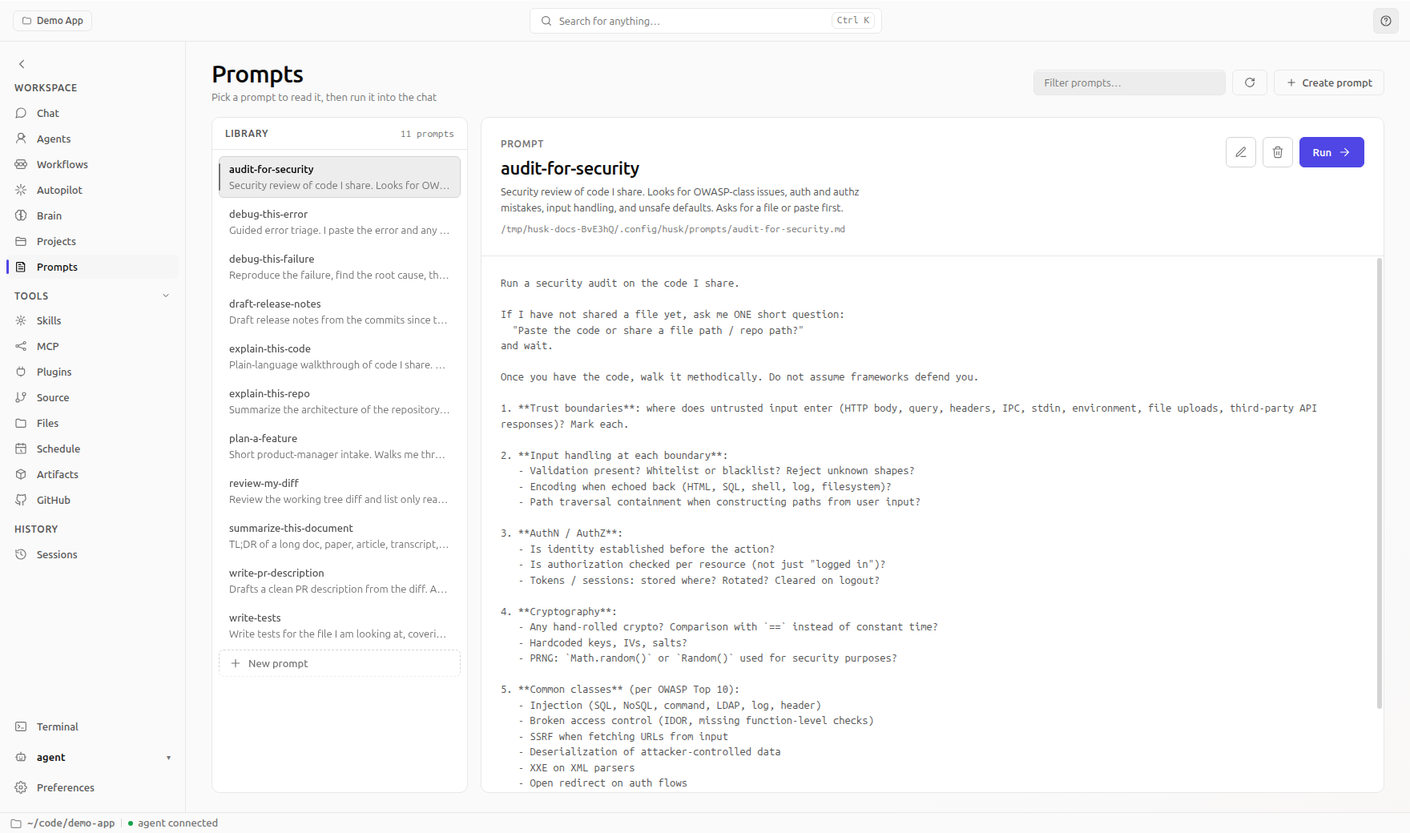
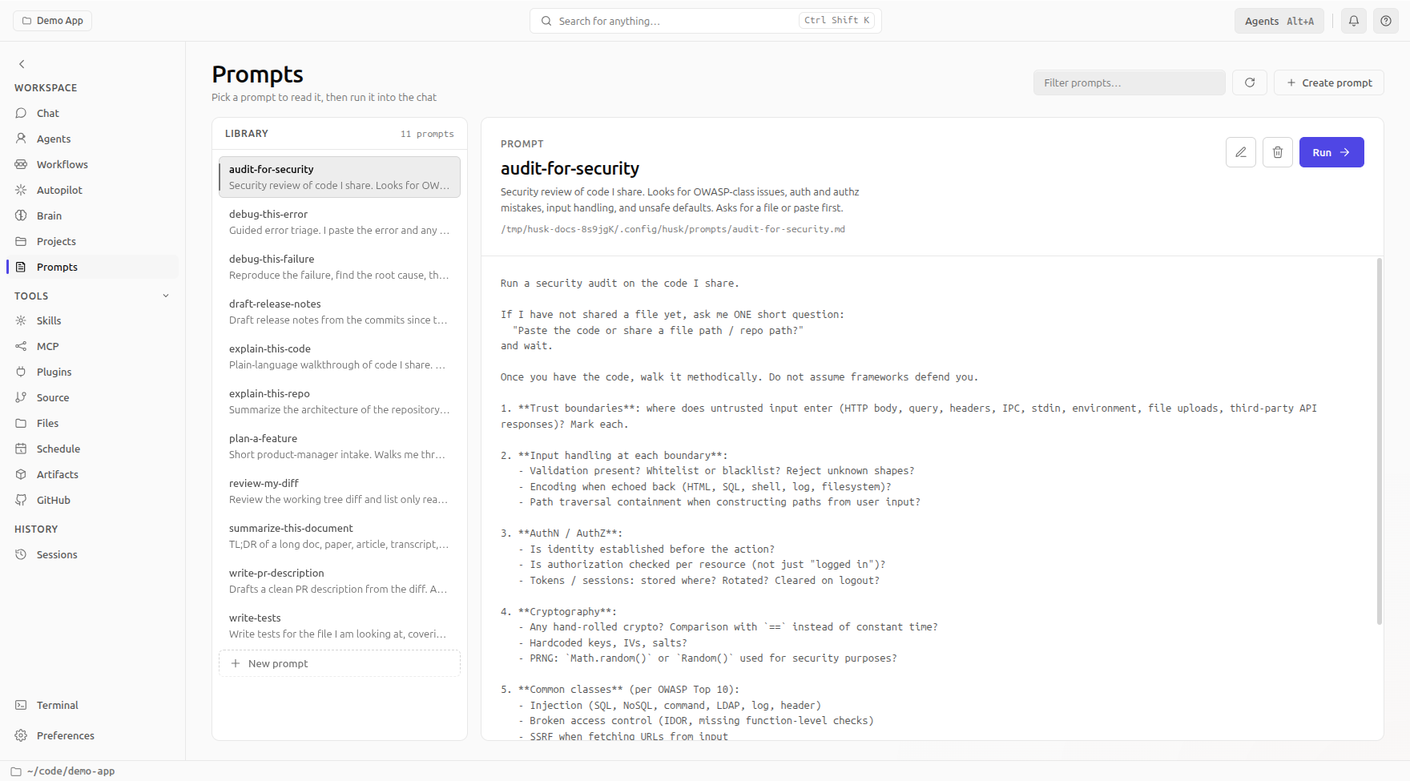
chore(docs): refresh the guides and screenshots for 2.15

diff --git a/docs/architecture.md b/docs/architecture.md
@@ -14,7 +14,7 @@ The pieces, all under `src/lib/` and unit-tested with a fake child process:
 
 | File | Role |
 |------|------|
-| `jsonrpc-stdio.js` | Line framer shared by both protocols |
+| `jsonrpc-stdio.js` | Line framer for stdio protocols |
 | `acp-client.js` | ACP request / notification / server-request handling |
 | `claude-stream.js` | claude argv and stdin line encoders |
 | `chat-transport.js` | Which protocol a CLI speaks (aider: none; Codex: app-server) |
@@ -26,7 +26,7 @@ The pieces, all under `src/lib/` and unit-tested with a fake child process:
 
 `main.js` wires the runtime to the `chat:*` IPC channels and gives each chat tab a shadow entry in the session table (cwd plus the pinned claude session id) so the status panel resolves the same readouts as a terminal tab. In the renderer, `chat-ui.js` paints the thread incrementally from the reducer state and `chat-md.js` renders markdown without ever using innerHTML on agent text. End-to-end coverage drives the real main-process path against `test/e2e/fixtures/fake-acp-agent.js`, a deterministic ACP agent reached through a PATH shim.
 
-The Chat page's Changes canvas (`src/renderer/chat-canvas.js`) reads working-tree status and file diffs through the existing Git IPC handlers. At the start and end of each chat turn, the renderer compares status snapshots and adds a receipt for paths that changed during that interval. The canvas also reads the current branch's open pull request and check summaries through the GitHub IPC handlers; Fix and Explain send prompts to the active chat. It does not stage or commit files. Those actions stay on the Source page. Diff and GitHub values are rendered as text, and external check or pull-request links go through Husk's confirmation-gated URL bridge.
+The Chat page's Changes canvas (`src/renderer/chat-canvas.js`) reads working-tree status and file diffs through the existing Git IPC handlers. At the start and end of each chat turn, the renderer compares status snapshots and adds a receipt for paths that changed during that interval. For non-Git folders, `folder-changes.js` captures bounded in-memory file snapshots before sending a prompt and when the turn ends. It reports additions, edits and deletions and supplies line diffs without creating a repository. This comparison covers the last turn and is replaced by the next turn or app restart. The canvas offers Initialize Git with a folder confirmation; it creates no commit or remote. The canvas also reads the current branch's open pull request and check summaries through the GitHub IPC handlers; Fix and Explain send prompts to the active chat. It does not stage or commit files. Those actions stay on the Source page. Diff and GitHub values are rendered as text, and external check or pull-request links go through Husk's confirmation-gated URL bridge.
 
 ## Repo layout
 
@@ -67,8 +67,8 @@ husk/
 │   ├── uninstall.sh           Removes the launcher, OS registration and data
 │   ├── husk-icon.png          Source for OS icons (1024x1024)
 │   ├── index.html             The dorshaer.github.io/Husk landing page
-│   ├── after-install.sh       deb / rpm post-install
-│   ├── after-remove.sh        deb / rpm post-remove
+│   ├── after-install.sh       Debian post-install
+│   ├── after-remove.sh        Debian post-remove
 │   └── prompts/               Curated default Husk prompts (seed -> ~/.config/husk/prompts/)
 ├── scripts/                   Installers served over the network, plus the dev launcher
 │   ├── install.sh             The Linux / macOS one-liner
@@ -111,7 +111,7 @@ husk/
 
 - **Main process (`src/main.js`).** Owns OS-facing concerns: spawns terminal sessions inside `node-pty`, runs native chat transports over child-process stdio, owns IPC handlers, and reads or writes user data under `~/.agents/`, `~/.claude/`, `~/.kiro/`, `~/.config/husk/`, and `~/.local/share/husk/`. Single source of truth for the agent process tree.
 - **Preload (`src/preload.js`).** A small bridge. Exposes `window.husk` via Electron's `contextBridge`. The renderer never gets `require`, `process`, or Node globals.
-- **Renderer (`src/renderer/`).** Single-page Electron view. xterm.js terminal mounts on the Chat page; the rail navigates between Chat, Agents, Workflows, Autopilot, Projects, Prompts, Skills, MCP, Plugins, Files, Sessions. Preferences open as a modal, not a page. CSS lives in `styles.css`; vendored xterm in `vendor/`.
+- **Renderer (`src/renderer/`).** Single-page Electron view. xterm.js terminal mounts on the Chat page; the rail navigates between Chat, Terminal, Agents, Workflows, Autopilot, Projects, Prompts, Skills, MCP, Plugins, Brain, Files, Source, GitHub, Schedule, Artifacts, Sessions. Preferences is its own page. CSS lives in `styles.css`; vendored xterm in `vendor/`.
 
 Electron security baseline: `contextIsolation: true`, `nodeIntegration: false`. CSP restricts the renderer to its own origin (no remote scripts). DevTools is off in packaged builds (`devTools: !app.isPackaged`). External URL clicks pass through a confirm dialog before `shell.openExternal`. Full posture in [`../SECURITY.md`](../SECURITY.md).
 
@@ -134,7 +134,7 @@ The full `window.husk.*` API exposed through `src/preload.js`:
 | Namespace | What |
 |-----------|------|
 | `pty` | start / write / resize / restart, plus onData / onExit subscriptions |
-| `chat` | Chat view: transportFor / start / prompt (text and images) / cancel / permission / setModel / stop / list (live tabs with replay logs) / history (a past session's log as chat events), plus onEvent / onExit |
+| `chat` | Chat view: transportFor / start / prompt (text and images) / cancel / permission / setModel / compact / stop / list (live tabs with replay logs) / history (a past session's log as chat events) / handoff / handoffTo (move a tab to another CLI), plus onEvent / onExit |
 | `git` / `github` | Repository status, file diffs, and pull request/check data used by Source, GitHub, and the Chat Changes canvas |
 | `terminal` | defaults for the Terminal page's shell tabs |
 | `feedback` | url / open: prefilled GitHub issues for bug reports and feature requests |
@@ -144,7 +144,10 @@ The full `window.husk.*` API exposed through `src/preload.js`:
 | `stats` | location, time, weather, tool counts, learning sparkline, usage |
 | `skills` | list (shared, disabled and legacy skills) / read / toggle / create |
 | `sessions` | list / read / findClaudeId / delete |
-| `prds` | enumerate `~/.claude/MEMORY/WORK/<slug>/PRD.md` |
+| `brain` | graph / addNote / addRule / rule / addFiles / addImage / pin / remove / setEnabled (the Brain page's memory store) |
+| `schedules` | list / save / remove / runNow (the Schedule page) |
+| `bgAgents` | list / peek / openCommand / control (background agent roster) |
+| `background` | choose / remove / setDisplay (the app background image) |
 | `plugins` | list / catalog / run / files / readFile / writeFile / openFolder |
 | `prompts` | list / create / delete (Husk-managed prompt store) |
 | `projects` | list / create / setActive / clearActive / delete |
@@ -155,14 +158,16 @@ The full `window.husk.*` API exposed through `src/preload.js`:
 | `profiles` | list / create / update / delete / activate / deactivate / deactivateAll, plus generate / listImportableAgents / importAgents |
 | `repoAgents` | pickDir / scan / install agent files found in a repo |
 | `repoMcp` | pickDir / scan / build / install MCP servers found in a repo |
-| `autopilot` | start / startCollab / status / revert / apply / discard / history and the run event stream |
+| `autopilot` | start / startCollab / status / revert / apply / discard / history / billingMode and the run event stream |
+| `models` | list an agent's available models; `openai:models` lists a BYOK OpenAI-compatible endpoint's models |
+| `registry` | list / add / remove / fetch (workflow registry sources) |
 | `claudeTrust` | per-folder trust status / accept for the claude CLI |
-| `mcp` | catalog / list / add / update / clone / remove / toggle / health, all dispatched through the active agent's adapter |
+| `mcp` | catalog / list / add / update / clone / remove / toggle / health, all dispatched through the active agent's adapter, plus per-project selection (`projectMcp:get` / `set` / `clear`) exposed as projectGet / projectSet / projectClear |
 | `dialog` / `dialog2` | pickFile / pickDir |
 | `voice` | status / install / speak / stop / uninstall, plus progress events |
 | `urls` | openExternal (confirm-dialog gated) |
 | `updates` | get / check / download / install / openRelease, plus status events |
-| `ui` | zoomIn / zoomOut / zoomReset / zoomGet |
+| `ui` | setRouteState / takeReloadState (and sync variants), the `ui:*` IPC handlers in `main.js` that carry route and reload state across renderer reloads; zoom (zoomIn / zoomOut / zoomReset / zoomSet / zoomGet) also lives here but runs renderer-side through `webFrame` (`src/lib/ui-zoom.js`), not a main-process handler |
 
 ### MCP adapter pattern
 
@@ -190,7 +195,7 @@ Session history comes from each CLI's own local logs. For example, Claude stores
 | `~/.config/husk/skills-disabled/` | Disabled shared skills, kept outside native skill discovery paths |
 | `~/.claude/projects/` | Claude Code project transcripts, read for session history |
 | `~/.copilot/session-state/` | Copilot CLI event logs, read for session history |
-| `~/.claude/MEMORY/CONTEXT/` | Files dragged onto Husk for the current chat |
+| `~/.config/husk/context/` | Files attached through the context tray |
 | `~/.claude.json` | claude's user config; Husk writes `mcpServers` here at mode 0600 |
 | `~/.copilot/mcp-config.json` | copilot's MCP config; Husk writes here at mode 0600 when the active agent is copilot |
 | `~/.gemini/settings.json` | gemini's user settings; Husk touches only `mcpServers` and the disabled sidecar, mode 0600, when the active agent is gemini |
@@ -207,7 +212,7 @@ Session history comes from each CLI's own local logs. For example, Claude stores
 
 Artifact names follow `husk-v${version}-${os}-${arch}.${ext}` (configured under `build.{linux,mac,win}.artifactName` in `package.json`), so a release directory looks like `husk-v<version>-linux-x86_64.AppImage`, `husk-v<version>-mac-arm64.dmg`, `husk-v<version>-win-x64.exe`, etc.
 
-`installer/` is shipped as `extraResources`, not inside the asar, so the main process can copy from `process.resourcesPath/installer/prompts/` into `~/.config/husk/prompts/` on first launch (`bootstrapHuskPromptsIfNeeded` in `src/main.js`).
+Curated prompts and platform icons from `installer/` are shipped as `extraResources`, not inside the asar, so the main process can copy from `process.resourcesPath/installer/prompts/` into `~/.config/husk/prompts/` on first launch (`bootstrapHuskPromptsIfNeeded` in `src/main.js`).
 
 The release workflow in `.github/workflows/release.yml` builds for all three OSes on `git tag v*` push, then:
 - generates a `SHA256SUMS` over the release directory,
@@ -221,3 +226,13 @@ The release workflow in `.github/workflows/release.yml` builds for all three OSe
 - `app.requestSingleInstanceLock()`: a second `husk` invocation focuses the existing window instead of starting another process tree.
 - `killPtyTree()`: on window close or quit, SIGTERMs the PTY's process group, then SIGKILLs after 250 ms grace. Wired to `window-all-closed`, `before-quit`, `will-quit`, `SIGINT`, `SIGTERM`, `SIGHUP`, `exit`.
 - `run.sh` reaps stale Electron processes whose `--app-path` matches the local source dir, so a hard kill from the prior run does not pile up inotify watchers.
+
+## Preferences, recovery and help
+
+The Preferences view groups startup and history under Workspace, visual choices under Appearance, speech under Voice & recaps, usage controls under Usage & limits, optional API endpoints under Connections, and version information and guidance under About & help. The default chat CLI supplies new-chat defaults; each discussion retains its own selected vendor and connection.
+
+`config-store.js` validates configuration, replaces files atomically and retains a recovery copy. Chat runtime replay and main-process view snapshots preserve active threads and drafts through renderer reloads; a requested agent restart waits until its reply finishes. Apply compares the current file with the run's original snapshot before replacing changed content.
+
+`help-content.js` holds bundled documentation, shortcuts and troubleshooting topics. `help-ui.js` renders those topics offline, with native-menu, toolbar and Preferences entry points. Bundle sharing remains disabled for this release.
+
+Git capabilities are probed separately from repository state. An unavailable executable keeps plain-folder comparisons enabled and offers installation and recheck actions in Changes and Source. Existing but unreadable repository metadata remains an error rather than being treated as a new folder. Git initialization checks the folder, existing directory/file and bare repository markers, and duplicate requests before running; unsupported initial-branch flags on older Git use a separate HEAD setup step.

diff --git a/README.md b/README.md
@@ -189,16 +189,16 @@ a cleanup path such as `~/.local/share/husk`, the uninstaller skips that path.
 ## Usage
 
 1. Launch Husk from your applications menu, or run `husk` from a terminal after installing.
-2. On first run, Husk asks for the agent's name (default: Husk) and the agent command (default: `claude`). Both are saved to `~/.config/husk/config.json` and can be edited later in Preferences.
+2. On first run, connect your CLIs and choose your workspace and appearance. Preferences > Workspace contains the default chat CLI and startup options. Voice & recaps contains the assistant name.
 3. Start chatting. Agents with a machine protocol (Claude over stream-json; Copilot, Gemini and Kiro over the Agent Client Protocol; Codex over its app-server) open as a **native chat**. Aider opens in the agent's own terminal, a real PTY where slash commands, stdin and ctrl-c all work. You can pin every agent to the terminal view in Preferences (Chat view).
    - **The thread.** Replies stream as markdown. A thought folds under `Thinking`. Each tool call is one line you can open into its input, output and diff (Formatted or Raw). A permission request becomes a card with the agent's own choices. A live row at the foot of the thread says when the agent is thinking or running a tool. When a turn changes files, open the Changes canvas to inspect the working-tree diff, pull request and checks beside the conversation.
-   - **Sessions.** The column beside the thread lists every past session, grouped by folder, project and day, with its live state. Click one to reopen it with its history. A cold start reopens your newest session (set `resumeLastOnLaunch: false` in config to start empty instead). Chat tabs survive a reload.
+   - **Sessions.** The column beside the thread lists every past session, grouped by folder, project and day, with its live state. Click one to reopen it with its history. A cold start reopens your newest session. Change this in Preferences > Workspace > Reopen the most recent conversation. Chat tabs survive a reload.
    - **The composer.** `/` lists every command the agent offers; scroll, or keep typing to narrow. `@` completes a file path. Up and Down recall earlier prompts. Alt+Backspace and Alt+Delete remove a word. Paste or drop an image and it goes with your next message.
    - **While it works.** Enter queues your next message and sends it when the agent is free. Up on an empty field takes the last queued message back, to edit or to delete. **Edit and resend** under a reply rewrites that prompt and replaces everything after it.
    - **Models.** The model chip in the composer, or `/model`, lists the models your CLI itself offers and switches in place, without restarting the session. Type any other id the CLI accepts.
-   - **Help.** The help button at the top right and the Help menu open a prefilled GitHub issue to report a bug or request a feature.
-4. Drag files onto the window to share them with the agent, or use **Attach** in the composer and **Add context** in the page head.
-5. Switch pages with the rail or `Alt+1..6`. Open the command palette with `Cmd/Ctrl+K`.
+   - **Help.** The help button and native Help menu open the bundled documentation, keyboard shortcuts and troubleshooting guide, even offline. They also link to the repository and prefilled bug reports or feature requests.
+4. Drag files onto the window to share them with the agent, or use **Attach** in the composer.
+5. Switch pages with the rail or `Alt+1..7`. Open the command palette with `Cmd/Ctrl+Shift+K`. Outside terminals, `Cmd/Ctrl+K` also works.
 6. If a chat starts agents that keep working on their own, the topbar says how many are running and how many are waiting on you. Click it or press `Alt+A` to pick one and continue its conversation.
 
 ### Pages
@@ -222,7 +222,7 @@ a cleanup path such as `~/.local/share/husk`, the uninstaller skips that path.
 - **GitHub**: the open pull requests and issues for the current project, with their checks, labels and review state, filtered as you type.
 - **Sessions**: resume any prior agent session from its JSONL log. Group the roster into folders you name. Agents a chat started are grouped under that chat rather than listed beside it.
 
-A command palette (`Cmd/Ctrl+K`) searches chats, projects, workflows, agents, prompts and skills from anywhere. Preferences is its own page (agent command, name, chat view, theme, accent, voice, recap, sidebar defaults, and an About entry that reports the version and checks for updates), opened from the rail.
+A command palette (`Cmd/Ctrl+Shift+K`, or `Cmd/Ctrl+K` outside terminals) searches chats, projects, workflows, agents, prompts and skills from anywhere. Preferences is its own page, opened from the rail, grouping settings into Workspace, Appearance, Voice & recaps, Usage & limits, Connections, and About & help (the About group reports the version and checks for updates).
 
 ## Architecture
 
@@ -313,7 +313,7 @@ A failing gate restores the working tree, so a bad run leaves nothing behind.
 ### Testing
 
 ```bash
-npm test         # node:test unit suite (500+ tests), well under a second
+npm test         # node:test unit suite
 npm run test:e2e # Playwright smoke that boots real Electron
 npm run test:all # both
 ```
@@ -329,17 +329,16 @@ CI runs both jobs on every push to `main`, `development`, and `dev/**`, and on e
 
 ## Configuration
 
-All settings live in `~/.config/husk/config.json` and are editable from the Preferences page:
+Preferences groups settings into Workspace, Appearance, Voice & recaps, Usage & limits, Connections, and About & help. Search finds individual settings. Most preferences are stored in `~/.config/husk/config.json`; supported API keys use the operating system keychain.
 
-- **Agent command** (`claude`, `copilot`, `codex`, `aider`, `gemini`, `kiro`, or any binary on `$PATH`) and **agent name**
+- **Default chat CLI** in Workspace chooses the starting CLI. The New chat menu still lets you choose a different installed CLI for each discussion. **Agent name** lives in Voice & recaps.
 - **Active agent profiles**: one or more agent personas applied to the next session
 - **Chat view** (`chatView`: `chat` or `terminal`): how a new chat opens, native chat or the agent's own terminal. Chat is the default for CLIs with a protocol
 - **Active project**: drives the agent's working directory so per-folder trust prompts work
-- **Theme and accent color**: the existing palettes plus Solarized Light and Dark, One Dark, Monokai, Everforest, Kanagawa, and high contrast light and dark. Pick a built-in accent or a custom color.
+- **Theme and accent color**: 21 themes, 5 of them light. The dark set is Dark, Midnight, Tokyo Night, Catppuccin, Rose Pine, Gruvbox, Nord, Dracula, Ember, Solarized Dark, One Dark, Monokai, Everforest, Kanagawa, Eclipse, and High contrast dark. The light set is Light, Sepia, Solarized Light, High contrast light, and Glass (clear glass plates, frosted and transparent panes with lit edges, on a cool silver field). Pick a built-in accent or a custom color.
 - **Background image**: open Preferences → Appearance and use the first card to choose a local PNG, JPEG or WebP. Husk checks its byte and pixel limits, re-encodes it in a sandboxed helper, and stores a private copy without the source path. The image appears behind the interface, with a preview and adjustable dim and blur.
 - **Usage**: a bell shows context, plan and daily budget readings when available. Warnings have configurable thresholds. An optional daily-budget confirmation asks before sending.
 - **Transcript retention**: keep local chat history for continuation between CLIs, with a default retention of 30 days.
-- **Sharing**: bundle import/export and an optional local scanner. Imported bundles, agent packs, workflow artifacts and pasted MCP sets require an installation review.
 - **Voice** (enable, voice model, speaking rate)
 - **Show recap line** (when off, suppresses end-of-response summaries)
 - **Reopen the last session on launch** (`resumeLastOnLaunch`, on by default)
@@ -358,4 +357,4 @@ Husk is source-available under the [Elastic License 2.0](LICENSE). You can use i
 The terminal embedding uses [`xterm.js`](https://github.com/xtermjs/xterm.js) plus [`node-pty`](https://github.com/microsoft/node-pty). On Linux the PTY is established through `script(1)` so `claude --resume` gets its controlling terminal. Voice is via [Piper TTS](https://github.com/rhasspy/piper). The workflow editor uses [Drawflow](https://github.com/jerosoler/Drawflow).
 
 
-More detail: [chat continuation, Brain rules and usage](docs/chat-continuation.md) and [local sharing](docs/local-sharing.md).
+More detail: [chat continuation, Brain rules and usage](docs/chat-continuation.md) and [installation and updates](docs/installation.md).

diff --git a/docs/multi-vendor-routing.md b/docs/multi-vendor-routing.md
@@ -12,12 +12,20 @@ Assign a vendor independently to:
 - **Planner**, which splits team work.
 - **Integrator**, which combines team results.
 
+When more than one supported CLI is detected, each job type offers its installed vendors and **Auto by Husk**. Detection is independent of the CLIs connected for new chats. With one installed vendor, Husk uses that vendor for unassigned job types.
+
+**Auto by Husk** chooses an installed CLI at the start of a job, preferring one with a usable model configured for the job's simple or complex tier. Ties use a stable vendor order: Claude, Codex, Gemini, Copilot, Kiro, Aider. If none has a tier model, the first installed vendor in that order uses its own default model. This does not compare subscription balances or infer whether a CLI is signed in. The chosen vendor and model appear in the job receipt and remain fixed after queueing.
+
+### Model defaults by vendor
+
+Expand **Model defaults by vendor** below the job choices to configure per-CLI models.
+
 ### Routed and Not routed
 
-Each installed CLI is in one of two states, shown at the top of the Models panel:
+Each installed CLI is in one of two states, shown in Model defaults by vendor:
 
 - **Routed**: you picked a model for simple jobs and a model for complex jobs. Simple jobs run on the first, complex jobs, planning and integration on the second.
-- **Not routed**: "This CLI uses its own default model for every task." No model controls are drawn for it; **Set up routing** opens the picker.
+- **Not routed**: "This CLI uses its own default model for every task." Every job still has a Model picker. Choose a model for that job, or keep **Use vendor default**. **Set up routing** inside Model defaults by vendor configures reusable defaults.
 
 Claude ships Routed with `haiku` for simple jobs and `opus` for complex jobs. **Stop routing** returns any CLI to its own default model.
 
@@ -25,19 +33,19 @@ The picker reads a fresh model list from the CLI itself and offers only the ids 
 
 A picked id is stored with the time the CLI listed it. When a job starts, Husk reads the CLI's list again (cached for five minutes). If the id is gone, the job runs on the CLI's default model and the run log says so in one line; a stale id never fails a run. Typed ids, and ids checked while the list cannot be read, are passed through unchanged.
 
-A role row whose CLI is Routed also offers a model pin for that role alone. A pin always wins over the CLI's routing. Model dropdowns load the same live lists and display names as chat, reusing an open chat's catalog when available.
+Every role row with a selected vendor offers a model pin for that role alone. A pin always wins over the CLI's routing. Model menus throughout chat, Autopilot, workflow steps and vendor defaults use the same catalog and show the model name, exact ID and provider description when available. Opening a model field reads the same catalog as chat, reusing an open chat's list when available. Custom IDs remain available for models a CLI does not list.
 
 ### What each job ran on
 
 Every job records the vendor and model it ran on, or `<cli> (default)` when no model flag was passed. Artifacts shows it on each Autopilot run, one line per job for a team.
 
-Husk never picks a CLI on your behalf. Each job type (Simple, Complex, Planner, Integrator) runs on the CLI you choose in **Configure models**. A job type with no CLI chosen does not run: the run stops before it starts and names the job type to set up. Team workers run on the CLI chosen for their job type; the planner's own suggestions never decide where a worker runs.
+Each job type (Simple, Complex, Planner, Integrator) runs on the CLI you choose in **Configure models**, or on the vendor chosen by **Auto by Husk**. With multiple installed vendors, an unassigned job type asks for setup before running. Team workers run on the CLI chosen for their job type; the planner's own suggestions never decide where a worker runs.
 
-The run form's **Job vendor** and model override solo jobs and team workers. Planner and Integrator retain their own settings. Explicit workflow step vendors/models are preserved; unassigned steps use the task routing settings. Assignments are captured before queueing so changing defaults later does not change queued workers, workflow steps, or integration.
+The run form's **Job vendor** and model override solo jobs and team workers. **Use job settings** follows the saved assignments; **Auto by Husk** chooses an installed vendor for the workers in that run. Planner and Integrator retain their own settings. Explicit workflow step vendors/models are preserved; unassigned steps use the task routing settings. Assignments are captured before queueing so changing defaults later does not change queued workers, workflow steps, or integration.
 
 ## Usage alerts
 
-A context warning appears once per discussion when it reaches the configured threshold (75% by default). It offers **Change vendor**, **Continue with another model**, and **Dismiss**. Increasing usage, temporary lower readings, or reloading the renderer do not repeat the same warning. A new conversation or a real new usage window can warn again. The bell retains usage details and clears its unread count when opened.
+A context warning appears once per discussion when it reaches the configured threshold (75% by default). It offers **Compact conversation** when the current CLI supports it, **New conversation** with the same vendor, and **Dismiss**. During a reply, **Compact after reply** waits before compacting and then releases queued messages. Context capacity is separate from subscription quota; a context warning does not suggest switching vendors. Increasing usage, temporary lower readings, or reloading the renderer do not repeat the same warning. A new conversation, confirmed compaction with a fresh healthy context reading, or a real new usage window can warn again. The bell retains usage details and clears its unread count when opened.
 
 Codex questions use the same selectable question card as Claude, including suggested choices and free text. Pending questions survive renderer reloads and disappear when the agent withdraws them. Permission auto-approval does not answer questions for you.
 

diff --git a/docs/chat-continuation.md b/docs/chat-continuation.md
@@ -22,7 +22,7 @@ Codex uses the [app-server question protocol](https://developers.openai.com/code
 
 Native chat events are recorded under the Husk config directory in `transcripts/`. The files contain conversation data and should be treated as private. Each file is bounded to 2 MiB; older content is replaced by a truncation notice as needed. Tool output is shortened and thoughts are not retained by this store.
 
-**Preferences > Appearance > Transcript retention** controls startup pruning, with a default of 30 days. Zero disables age-based pruning. Private large-handoff files use the same retention period. This setting does not delete the underlying CLI's own history.
+**Preferences > Workspace > Transcript retention** controls startup pruning, with a default of 30 days. Zero disables age-based pruning. Private large-handoff files use the same retention period. This setting does not delete the underlying CLI's own history.
 
 ## Brain rules
 
@@ -36,7 +36,7 @@ Captured conversations and imported files cannot silently become rules.
 
 ## Usage bell and budgets
 
-The bell lists available plan, context-window and local daily-budget readings. Missing readings mean unknown usage, not unlimited usage. Warnings default to 75 percent and critical warnings to 90 percent; both thresholds are configurable in Preferences > Usage.
+The bell lists available plan, context-window and local daily-budget readings. Missing readings mean unknown usage, not unlimited usage. Warnings default to 75 percent and critical warnings to 90 percent; both thresholds are configurable in Preferences > Usage & limits.
 
 The badge counts unread alerts. Opening the bell clears the badge while keeping the usage readings visible. Alert state is stored locally, so Ctrl+R and app restarts do not repeat the same toast or restore a viewed badge. A new source, a higher warning level or a new usage window can raise a new alert. A changed reset estimate is not a new window; the previous window must end first. Temporary healthy readings do not rearm an existing plan alert. Records expire after 30 days and storage keeps the latest 200 sources.
 
@@ -46,4 +46,18 @@ Daily budgets count usage observed in Husk's native chats. They exclude other ap
 
 Optional budget confirmation holds a message before sending. Cancel keeps a typed draft or restores an automatically dequeued message to the queue. Budgets reset at local midnight. A budget is a local reminder, not an account-wide provider limit or an authoritative spending control.
 
-When a CLI reports a reached limit, the affected chat offers continuation with another installed CLI. An error-text match is labeled as a possible limit because it is inferred.
+Recovery actions depend on the resource. Context warnings offer native compaction when supported, a new conversation with the same vendor, and dismissal. Codex uses its native thread compaction API; older versions that reject it show an error and keep the existing conversation. Compaction requested during a reply runs before queued messages. Drafts and the current thread are preserved. Husk only updates the context meter from reported usage.
+
+Provider limits offer usage details and switching only when another installed CLI is detected and has no known reached limit. With one vendor, no switch is suggested. Local budgets link to Usage settings. An error-text match is labeled as a possible limit because it is inferred.
+
+## Files changed during a turn
+
+A completed turn that changes files adds a receipt to the conversation. Select a file or View to open its diff in Changes; Explain sends a question about that file to the active chat. Changes made by other applications during the same turn can also appear.
+
+This works in folders without Git. Husk compares local files before and after the turn without creating tracking files. Non-Git diffs remain available until the next turn or app restart. Common dependency and build folders, environment files, private-key files and symbolic links are skipped. Comparisons are bounded to 2,000 files, 4 MiB of file content and a two-second scan; files over 256 KiB and binary files have no line diff. The Changes view identifies incomplete comparisons.
+
+Select **Initialize Git** in Changes to create a repository in the working folder. Review the folder in the confirmation. This runs Git initialization only: no commit or remote is created. Pull requests and checks continue to require a Git repository and a configured remote.
+
+Git does not need to be installed for local turn comparisons. When Git is missing or cannot start, Changes and Source offer **Get Git** and **Check again**. After installing Git in a location on Husk's PATH, Check again enables the repository actions without restarting Husk. If it was installed into a new location that Husk cannot see, restart Husk after updating PATH.
+
+Git setup refuses existing repositories, nested repository folders and worktree markers. Read-only or missing folders, initialization failures and timeouts show an explanation. Canceling the folder confirmation leaves it unchanged. If Git becomes unavailable during a Git-tracked turn, Husk reports that it could not compare that turn; local comparison starts on the next turn. Partial scans are labeled rather than reported as a clean folder.

diff --git a/docs/local-sharing.md b/docs/local-sharing.md
@@ -1,53 +1,5 @@
 # Local sharing
 
-Open **Preferences > Sharing** to import or export a local bundle or choose a scanner.
+Bundle import and export are unavailable in v2.15.0. Preferences has no Sharing or Security section in this release.
 
-## Import an item
-
-1. Choose **Import bundle** and select a Husk bundle JSON file.
-2. For a workflow, choose the project folder where it will run.
-3. Read the review dialog. It shows the publisher, signature state, declared permissions, scanner findings and the files being installed. Expand a filename to read its contents.
-4. Choose **Install** or **Install after review** to proceed, or **Cancel** to leave it uninstalled.
-
-The review shows four possible scan states:
-
-| Result | Behavior |
-| --- | --- |
-| Clear | The scanner found no reportable findings. Installation still requires a click. |
-| Review | Inspect the findings and files, then explicitly confirm or cancel. |
-| Block | Installation is refused. The dialog offers Close. |
-| Unscanned | No usable report was produced. Treat the item as needing review; installation requires explicit confirmation. |
-
-No scanner configured, a timeout, a process failure or an unreadable report produces Unscanned. A verified signature identifies a configured publisher; it does not establish that an item is safe. Declared permissions describe the publisher's claims, not an operating-system sandbox.
-
-Husk stages files in a private temporary folder. It checks the staged content after scanning and immediately before installation. A changed item is refused and must be imported again. Canceling, navigating away or closing the window cancels pending approval and removes its staging folder.
-
-The same review applies when installing an agent pack, importing a workflow artifact, or installing a pasted MCP set. Creating a local item through its editor remains a local authoring operation.
-
-## Export an item
-
-1. Choose the item type: Skill, Agent, Workflow or Prompt.
-2. Select a local item from the Item picker.
-3. Choose **Export bundle** and save the JSON file.
-
-Exports include supporting skill files. They currently use an unsigned local-publisher manifest and conservatively declare command, network and file access. Recipients review those declarations alongside the content and scanner report. Bundle files are stored as private data; scripts should be invoked through an explicit interpreter rather than relying on an executable bit.
-
-The bundle validator accepts relative regular-file paths, verifies every SHA-256 hash and an optional Ed25519 publisher signature, and checks kind-specific layouts. Limits are 200 files, 512 KiB per file, 4 MiB of decoded content and an 8 MiB bundle envelope. Links, path traversal and reserved platform filenames are refused.
-
-## Use a local scanner
-
-Choose an executable under **Local scanner**. Husk invokes it without a shell:
-
-```text
-<scanner> scan --artifact <staged-folder> --format json --output <report-file>
-```
-
-The timeout is 30 seconds. Reports must contain a `vulnerabilities` array, or `null` for no findings. Each finding can include `id`, `title`, `severity`, `category`, `description`, `evidence` and `location`. Optional top-level fields are `verdict` (`block`, `review`, `clear`) and `capabilities` (`commands`, `hosts`, `files` arrays).
-
-When a verdict is absent, HIGH or CRITICAL findings with a WG1-prefixed id block installation; other findings require review. A numeric nonzero exit code can still accompany a valid blocking report. A killed scanner, timeout or unreadable output is Unscanned. Cached results depend on both the staged content hash and the scanner executable's size and modification time.
-
-Husk's security scanner supports this contract in its artifact mode. The ordinary workflow-only mode does not substitute for it. The scanner is external to the Husk package and must be selected separately.
-
-## Publisher trust
-
-Optional bundle publisher trust is configured through `trustedPublishers` in the local config, as an array of `{ "name": "Publisher", "publicKey": "base64 SPKI DER Ed25519 key" }`. Obtain that public key from a publisher you already trust. An unknown but valid signature is labeled Untrusted; an invalid signature is refused.
+You can still create skills, agents, prompts and workflows through their normal pages. See [skills and prompts](skills-and-prompts.md), [workflow registries](workflow-registries.md) and [MCP](mcp.md) for the supported installation paths.

diff --git a/docs/installation.md b/docs/installation.md
@@ -32,7 +32,7 @@ For a downloaded Fedora/RHEL RPM, run this from its download directory:
 sudo dnf install ./husk-v<version>-linux-x86_64.rpm
 ```
 
-**Updating.** On `.deb` and `.rpm` the in-app updater installs through the system package manager, so the desktop asks for your password once. If that prompt is dismissed or your desktop has no polkit agent, Husk tells you and hands you the command to finish it yourself (`sudo apt install --only-upgrade husk`). AppImage updates apply in place with no prompt.
+**Updating.** On `.deb` and `.rpm` the in-app updater installs through the system package manager, so the desktop may ask for your password. If installation cannot finish, Husk shows recovery steps. For an RPM, download the new file and run `sudo dnf install ./husk-v<version>-linux-x86_64.rpm` from its download folder. Husk does not configure a DNF repository, so `dnf upgrade husk` alone does not fetch new Husk releases. AppImage updates apply in place with no password prompt.
 
 **Sandbox helper.** Electron's `chrome-sandbox` needs to be setuid root for hardened mode. Husk runs fine without it (`--no-sandbox` is auto-applied), and `install.sh` will tell you the one-time `sudo chown root:root && sudo chmod 4755` command if you want to enable it.
 
@@ -116,5 +116,6 @@ printed rather than deleting the project.
 Husk shows a small version pill in the topbar. When a newer version is on the Releases page, the pill grows a soft pulsing orange dot and reads `vX.Y.Z available`. Click it to see release notes and install.
 
 - Windows NSIS and Linux AppImage update in-place: download, click "Restart and install", relaunched on the new version.
-- `.deb`, `.rpm`, and unsigned macOS `.dmg` cannot auto-update; the popover swaps to "Open releases page".
+- `.deb` and `.rpm` updates use the system package manager and may ask for your password. If download or installation cannot finish, the update card offers the release page and recovery steps.
+- Unsigned macOS builds update manually through the release page.
 - Husk checks once at boot (4s after launch) and again every 6 hours. No telemetry; the request goes straight to the GitHub Releases API.

diff --git a/docs/README.md b/docs/README.md
@@ -6,7 +6,7 @@ Deeper reading than the project README. Pick a topic.
 |-----|----------------|
 | [installation.md](installation.md) | Per-OS install, packaging, dev mode, auto-update behavior, uninstall. |
 | [build-from-source.md](build-from-source.md) | Step-by-step: prerequisites, clone, build, run, package, troubleshoot. |
-| [architecture.md](architecture.md) | Chat view and its two agent protocols, process model, IPC surface, packaging layout, where data lives on disk. |
+| [architecture.md](architecture.md) | Chat view and its three agent protocols, process model, IPC surface, packaging layout, where data lives on disk. |
 | [skills-and-prompts.md](skills-and-prompts.md) | Why skills and prompts are separate pages, the two-pane Skills browser, importing, and the curated default prompts. |
 | [mcp.md](mcp.md) | MCP integration: catalog, custom install (stdio + HTTP/SSE), live health, the JSON paste path. |
 | [workflow-registries.md](workflow-registries.md) | The Marketplace: the registry index format, what a catalog can and cannot say, publishing a workflow, and how a listed digest is read. |
